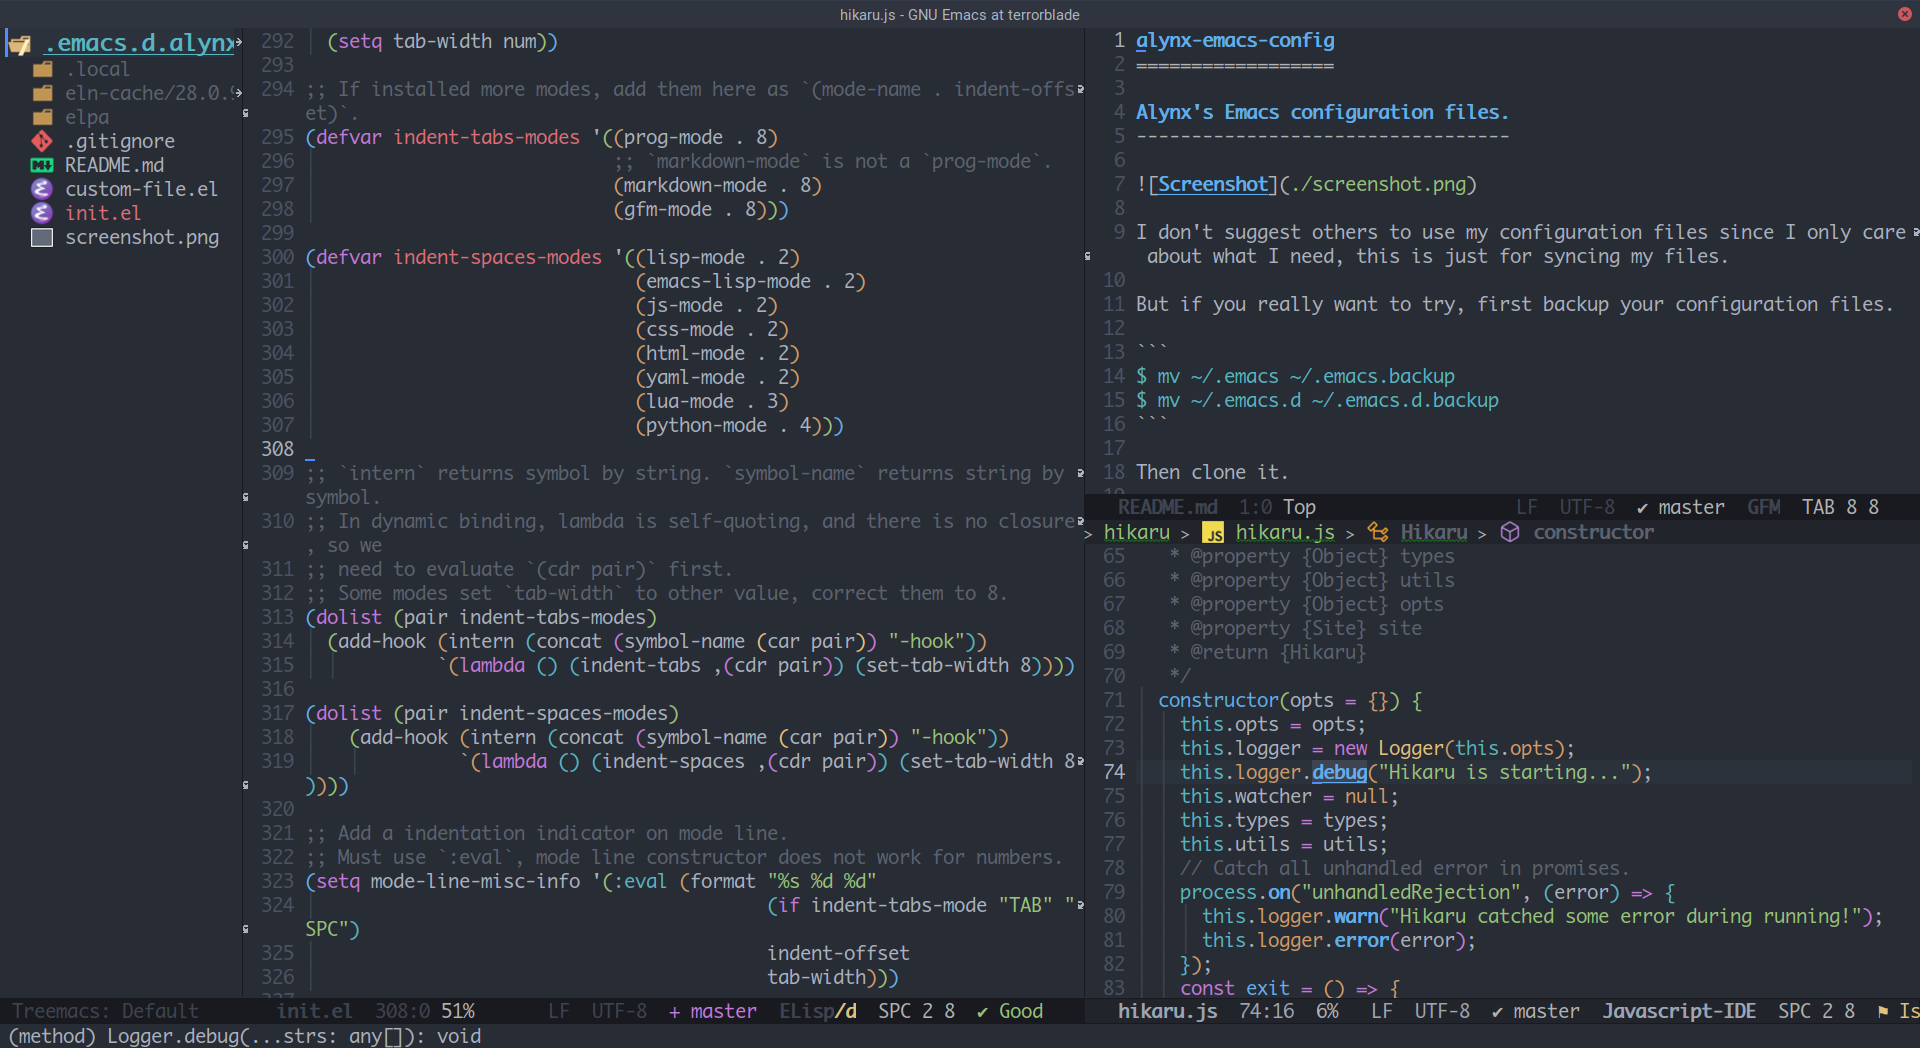
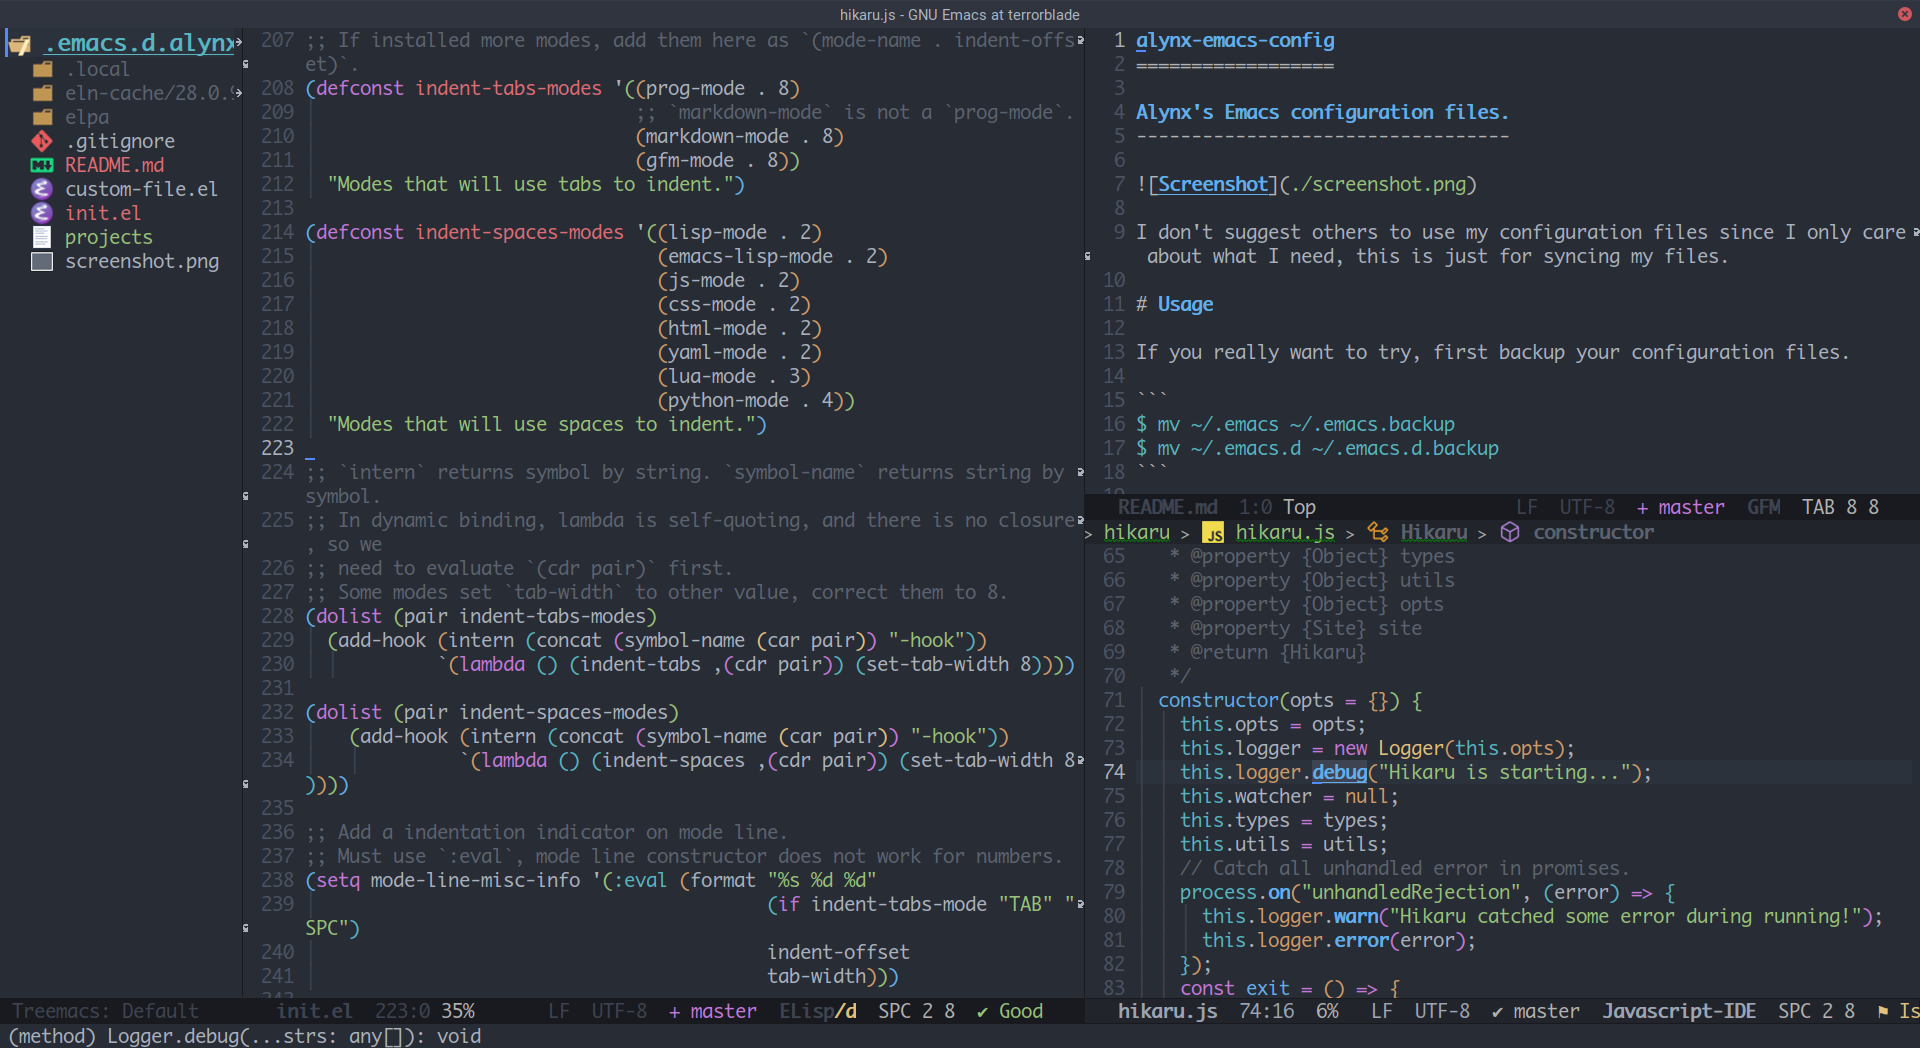
Updated to add keybindings for indentation helpers.

diff --git a/README.md b/README.md
@@ -8,7 +8,9 @@ Alynx's Emacs configuration files.
 
 I don't suggest others to use my configuration files since I only care about what I need, this is just for syncing my files.
 
-But if you really want to try, first backup your configuration files.
+# Usage
+
+If you really want to try, first backup your configuration files.
 
 ```
 $ mv ~/.emacs ~/.emacs.backup
@@ -24,3 +26,23 @@ $ git clone https://github.com/AlynxZhou/alynx-emacs-config.git ~/.emacs.d
 And run Emacs.
 
 I am using Emacs 28 with pgtk and native-comp from <https://aur.archlinux.org/packages/emacs-gcc-wayland-devel-bin>, if you are not using the latest version, this configuration may not work.
+
+# Notice
+
+## Indentation Handling
+
+By default, Emacs has different indent variables for different modes, and you need to set different one if you don't use mode's default value. To simplify this, I create a single variable and make aliases between modes' indent variables and this one. And I create some helper functions to set this.
+
+There is a buffer-local variable called `indent-offset`, if you want to change a file's indent offset (which means a indent level in this file is how many chars), just edit this variable. Currently I only make aliases for modes I use, if you install more modes, append their indent variables to `mode-indent-offsets` list.
+
+There are two helper functions to choose using tabs or spaces and set `indent-offset`. If you want to use tabs, press `C-c i TAB` or `M-x indent-tabs`, and it will ask you for `indent-offset`'s value. If you want to use spaces, press `C-c i SPC` or `M-x indent-spaces`, and it will ask you for `indent-offset`'s value.
+
+You may find that many articles tell you to modify `tab-width`, but this is not correct. You may use other editors that use `tab-width` as `indent-offset`, but this is not correct, either. To be clear, "using tab to indent" does not mean never using spaces, it means "if total indent levels is larger than `tab-width`, put tabs here and use spaces for trailing length that smaller than `tab-width`".
+
+For example, projects like GTK use 2 as `indent-offset` and 8 as `tab-width`, and they do use tab, if you have a code block that has 5 indent levels, it's actually using 1 tab and 2 spaces. And if you are using editors that mix `indent-offset` and `tab-width`, and you set `tab-width` to 2, you will find that this code block is wrongly placed in 2 indent levels. You should use `M-x indent-tabs RET 2 RET` for those projects.
+
+If you really want to modify `tab-width`, you can press `C-c i w` or `M-x set-tab-width`, but I suggest that if you want to set `tab-width` to value other than 8, you should just use spaces to indent, which means you'll never have tabs in your files, because most projects assume `tab-width` is 8 and just use spaces if they think 8 is too long.
+
+There are two cons lists called `indent-tabs-modes` and `indent-spaces-modes` that holds default value of `indent-offset` for different modes. The car of cons is mode's hook without hook, and the cdr of cons is default value of `indent-offset`, you should modify those lists if you want different settings.
+
+There is an indicator on modeline, first is `TAB` or `SPC`, second is `indent-offset`, third is `tab-width`.
